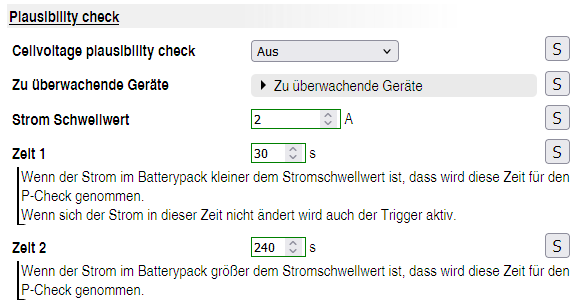
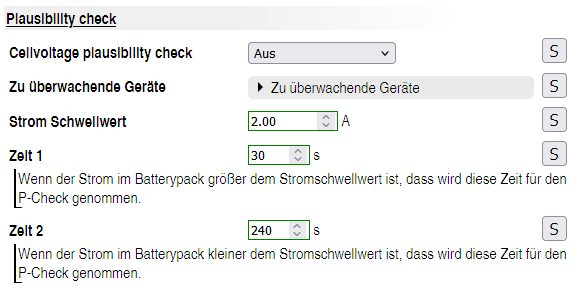
Update Plausibility check

diff --git a/docs/settings_bsc.md b/docs/settings_bsc.md
@@ -130,8 +130,6 @@ flowchart TD
 	n1 --> n6["Ist Strom >= 'Strom Schwellwert'"]
 	n6 --> n10["Zellspannungen ändern sich 'Zeit 1' nicht"]
 	n10 --> n4
-	n1 --> n2["Letzte Stromänderung > 'Zeit 1'"]
-	n2 --> n4
 ```
 <br>
 #### Value Adjustment für SoC-Übermittlung an den Wechselrichter
